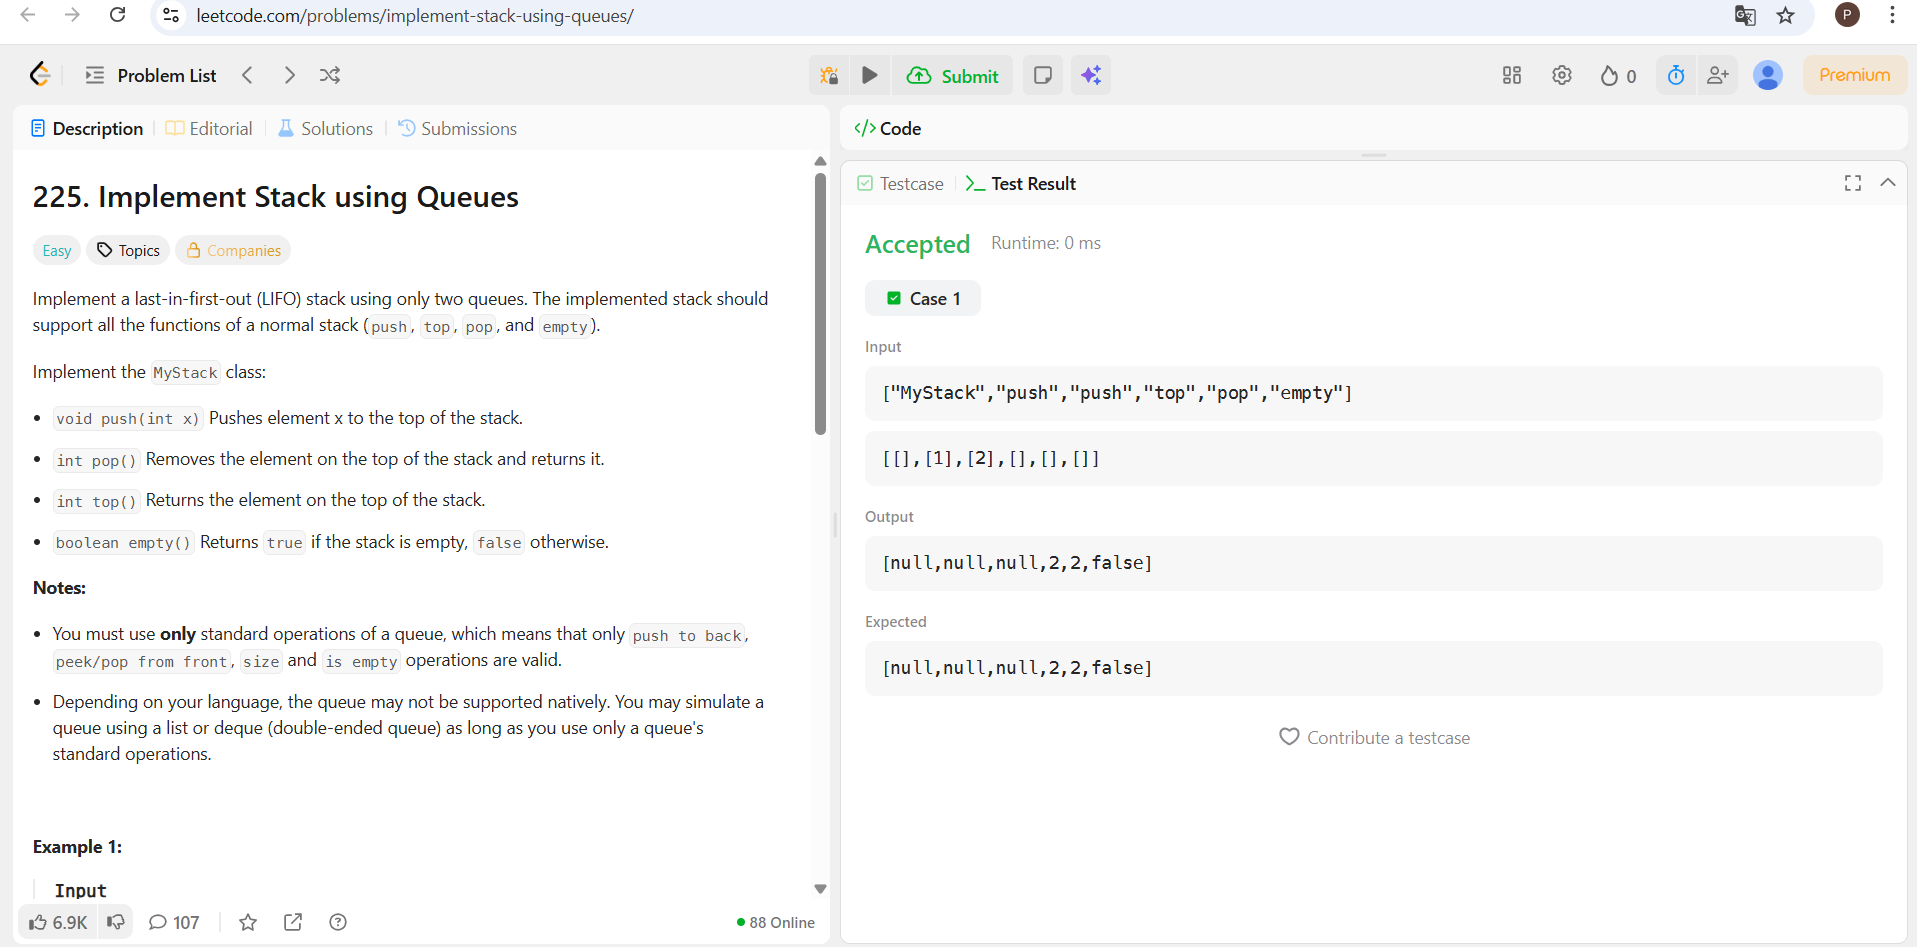
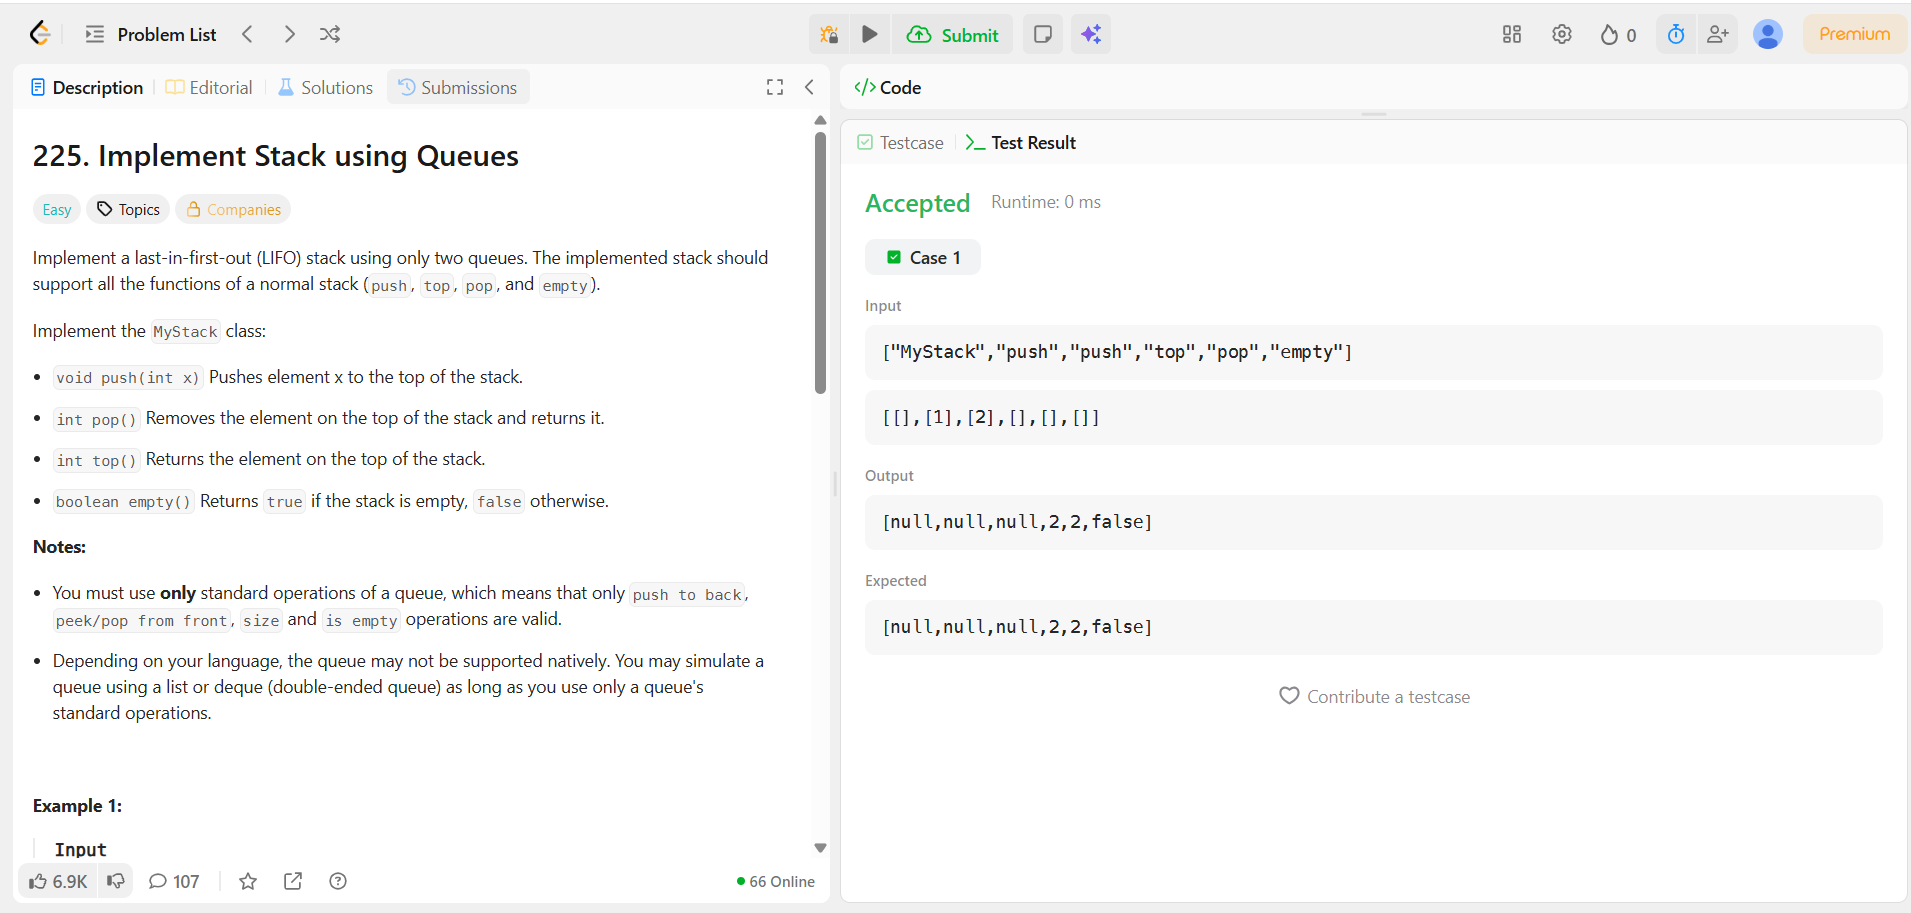
Task 225 with Linked list

diff --git a/225. Implement Stack using Queues/solution.py b/225. Implement Stack using Queues/solution.py
@@ -1,23 +1,46 @@
+"""2 Task"""
+
+class Node:
+    """class Node"""
+    def __init__(self, data, next=None):
+        self.data = data
+        self.next = None
+
 class Queue:
     """class Queue"""
     def __init__(self):
-        self.data = []
+        self.head = None
+        self.tail = None
 
     def push(self, x: int) -> None:
         """push"""
-        self.data.append(x)
+        new_node = Node(x)
+        if not self.head:
+            self.head = new_node
+            self.tail = new_node
+        else:
+            self.tail.next = new_node
+            self.tail = new_node
 
     def pop(self) -> int:
         """pop"""
-        return self.data.pop(0)
+        if not self.head:
+            return None
+        val = self.head.data
+        self.head = self.head.next
+        if not self.head:
+            self.tail = None
+        return val
 
     def top(self) -> int:
         """top"""
-        return self.data[0]
+        if not self.head:
+            return None
+        return self.head.data
 
     def empty(self) -> bool:
         """is_empty"""
-        if not self.data:
+        if not self.head:
             return True
         return False
 
